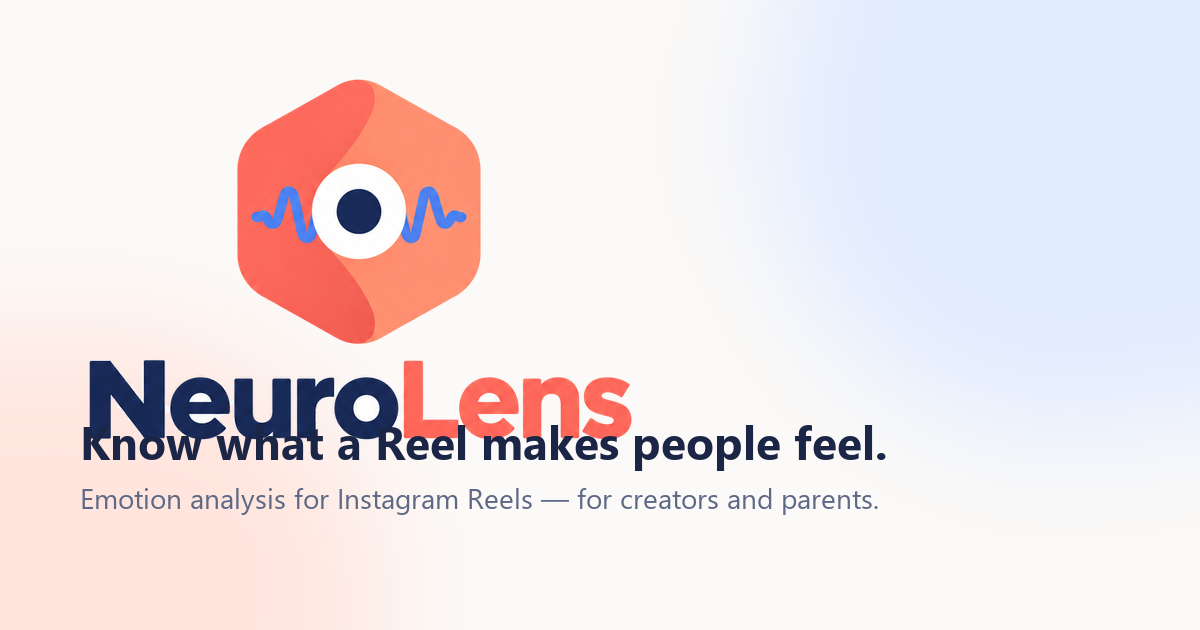
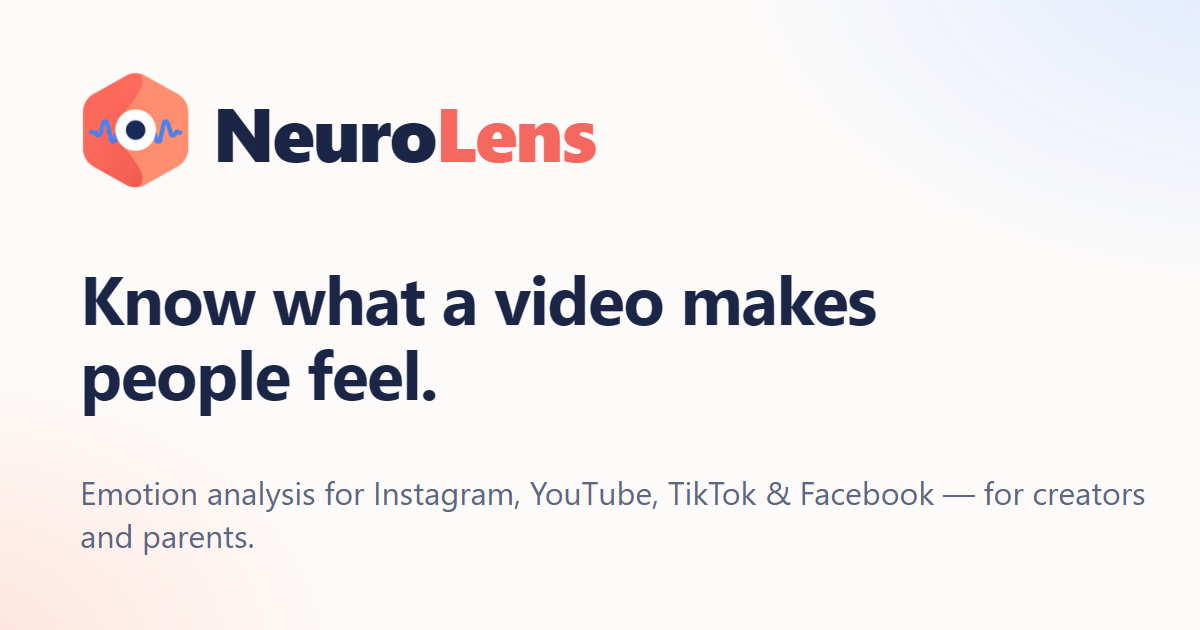
Fix the link-preview image and remaining Reel-only descriptions
Sharing the site (for example in WhatsApp) showed the new title and
description but the old preview picture, which had "Know what a Reel
makes people feel" and "Emotion analysis for Instagram Reels" drawn into
the image itself. Its logo wordmark also overlapped the headline.

- Regenerated assets/img/og-image.png (1200x630): logo and name on one
  line, the headline "Know what a video makes people feel.", and the
  line naming Instagram, YouTube, TikTok and Facebook.
- og:image on the home page pointed at a temporary ngrok address, which
  would break once the site is on neurolens.moveneticsdigital.com. It now
  points at the real domain.
- Web manifest, Flutter web manifest/index and pubspec descriptions no
  longer say "Instagram Reels".

Changed region(s): [[0.0617, 0.1206, 1.0, 0.8143], [0.0617, 0.8444, 0.2158, 0.8746]]

diff --git a/frontend/index.html b/frontend/index.html
@@ -17,7 +17,7 @@
 <meta property="og:site_name" content="NeuroLens">
 <meta property="og:title" content="NeuroLens — Know what a video makes people feel">
 <meta property="og:description" content="Emotion analysis for Instagram, YouTube, TikTok and Facebook videos, for creators and parents.">
-<meta property="og:image" content="https://absurd-chasing-deflector.ngrok-free.dev/assets/img/og-image.png">
+<meta property="og:image" content="https://neurolens.moveneticsdigital.com/assets/img/og-image.png">
 <meta name="twitter:card" content="summary_large_image">
 
 <link rel="stylesheet" href="css/base.css">

diff --git a/flutter/web/index.html b/flutter/web/index.html
@@ -18,7 +18,7 @@
 
   <meta charset="UTF-8">
   <meta content="IE=Edge" http-equiv="X-UA-Compatible">
-  <meta name="description" content="NeuroLens: emotion analysis for Instagram Reels, on your phone">
+  <meta name="description" content="NeuroLens: emotion analysis for Instagram, YouTube, TikTok and Facebook videos, on your phone">
 
   <!-- iOS meta tags & icons -->
   <meta name="mobile-web-app-capable" content="yes">
